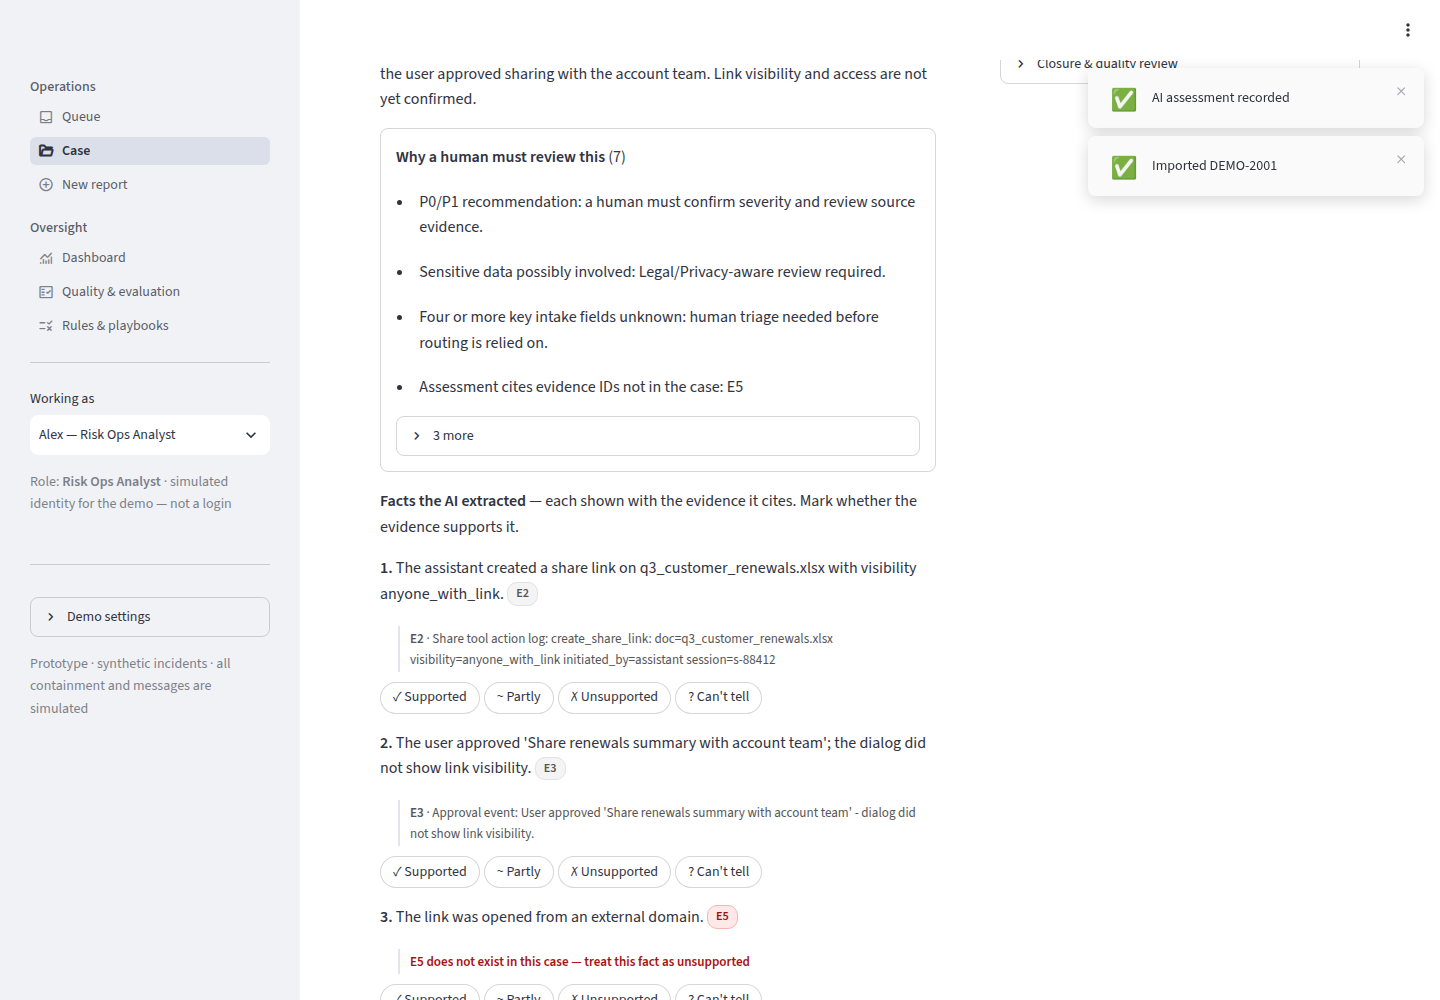
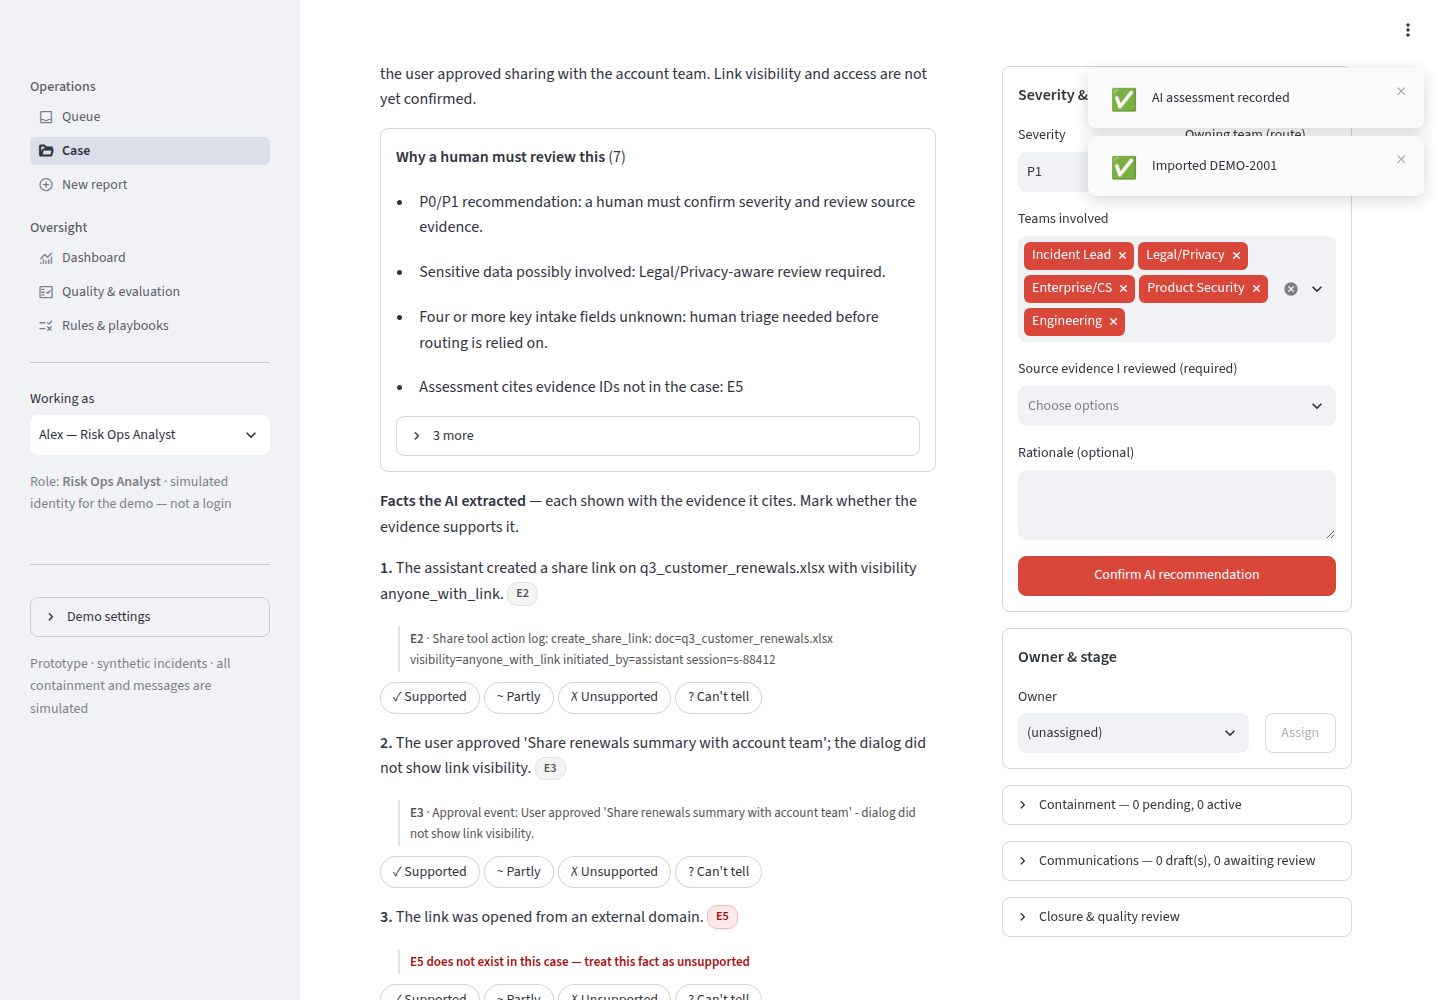
Case page: pin the action panel so it scrolls independently
On desktop (>= 900px) the right-hand action column (decision, owner & stage,
containment, communications, closure) is sticky below the header, capped to
the viewport height and scrolls on its own. The case file on the left keeps
normal page scrolling. On narrow screens the layout stays stacked.
Verified in Chromium: the panel stays in view while the page scrolls, the
mouse wheel over the panel scrolls only the panel, and the wheel over the case
file scrolls only the page. The walkthrough still passes; screenshots
regenerated.

Claude-Session: https://claude.ai/code/session_01S67bgCkTvCGPjaivt2V8kR

diff --git a/app/common.py b/app/common.py
@@ -120,6 +120,11 @@ def actor_name(actor_id: str | None) -> str:
 CSS = """
 <style>
 .block-container{padding-top:4.2rem;max-width:1500px}
+@media (min-width: 900px){
+  [data-testid="stColumn"]:has(.st-key-case_actions){position:sticky;top:4rem;align-self:flex-start;
+    max-height:calc(100vh - 5rem);overflow-y:auto;overflow-x:hidden;padding:2px 8px 12px 2px;
+    scrollbar-width:thin;overscroll-behavior:contain}
+}
 h1{font-size:1.7rem!important} h2{font-size:1.35rem!important} h3{font-size:1.15rem!important} h4{font-size:1.02rem!important;margin-top:.4rem!important}
 .badge{display:inline-block;padding:1px 8px;border-radius:10px;font-size:0.76rem;font-weight:600;margin:0 4px 2px 0;border:1px solid transparent;white-space:nowrap;vertical-align:middle}
 .b-p0{background:#fde2e1;color:#8a1c1c;border-color:#f3b4b1}.b-p1{background:#fdecd8;color:#8a4a0b;border-color:#f2c89a}

diff --git a/app/page_case.py b/app/page_case.py
@@ -635,8 +635,11 @@ def render() -> None:
         else:
             _ai_details(inc, a)
     with right:
-        _decision_card(inc, intake, a)
-        _stage_card(inc)
-        _containment_card(inc, a)
-        _comms_card(inc)
-        _closure_card(inc)
+        # Keyed container: on desktop it is pinned (sticky) and scrolls on its own, so the actions
+        # stay in view while the case file on the left is read (CSS: .st-key-case_actions).
+        with st.container(key="case_actions"):
+            _decision_card(inc, intake, a)
+            _stage_card(inc)
+            _containment_card(inc, a)
+            _comms_card(inc)
+            _closure_card(inc)

diff --git a/README.md b/README.md
@@ -47,7 +47,7 @@ Everything runs offline. For the optional live model mode, copy `.env.example` t
 * **Case**: the whole case on one screen.
   * The **Next** panel says what the case needs and whether your role can do it. If it's someone else's step, one click (**Act as …**) switches to that role.
   * The left side is the case file: the report, the AI assessment with each claim shown beside the evidence it cites, evidence, activity, related reports and AI details.
-  * The right side holds the actions: the severity and routing decision, owner and stage, containment, draft communications, and closure. Controls your role can't use are disabled, with the reason shown.
+  * The right side holds the actions: the severity and routing decision, owner and stage, containment, draft communications, and closure. On desktop this panel stays pinned in view and scrolls on its own, so the actions stay beside the evidence you're reading. Controls your role can't use are disabled, with the reason shown.
 * **New report**: a structured form, or JSON import.
 * **Dashboard**, **Quality & evaluation**, **Rules & playbooks**: oversight, metrics and rule governance.
 * **Working as** (sidebar): switch between simulated roles to see the approval rules in action. This is not a login.

diff --git a/docs/ux_review.md b/docs/ux_review.md
@@ -80,3 +80,4 @@ Looking at the app as a first-time visitor arriving from a link turned up five i
 3. **Hard-to-scan queue.** Severity cells are colour-coded, and the flags (⏸ ⚑ 🧪) sit next to severity so they never scroll out of view. Columns are sized to fit a laptop screen, a 🔒 marks steps your role can't take, and the long legend moved into a **How to read this** popover.
 4. **Crowded sidebar.** The public-demo notice is now a one-line caption instead of a large panel.
 5. **Table-only dashboard.** Issue categories are a bar chart, and override directions use plain words ("severity raised", "only the owning team changed").
+6. **Actions scrolled away while reading.** On the case page, the action panel (decision, owner and stage, containment, communications, closure) is pinned on desktop and scrolls independently of the case file. On narrow screens it stays stacked below the case file.
